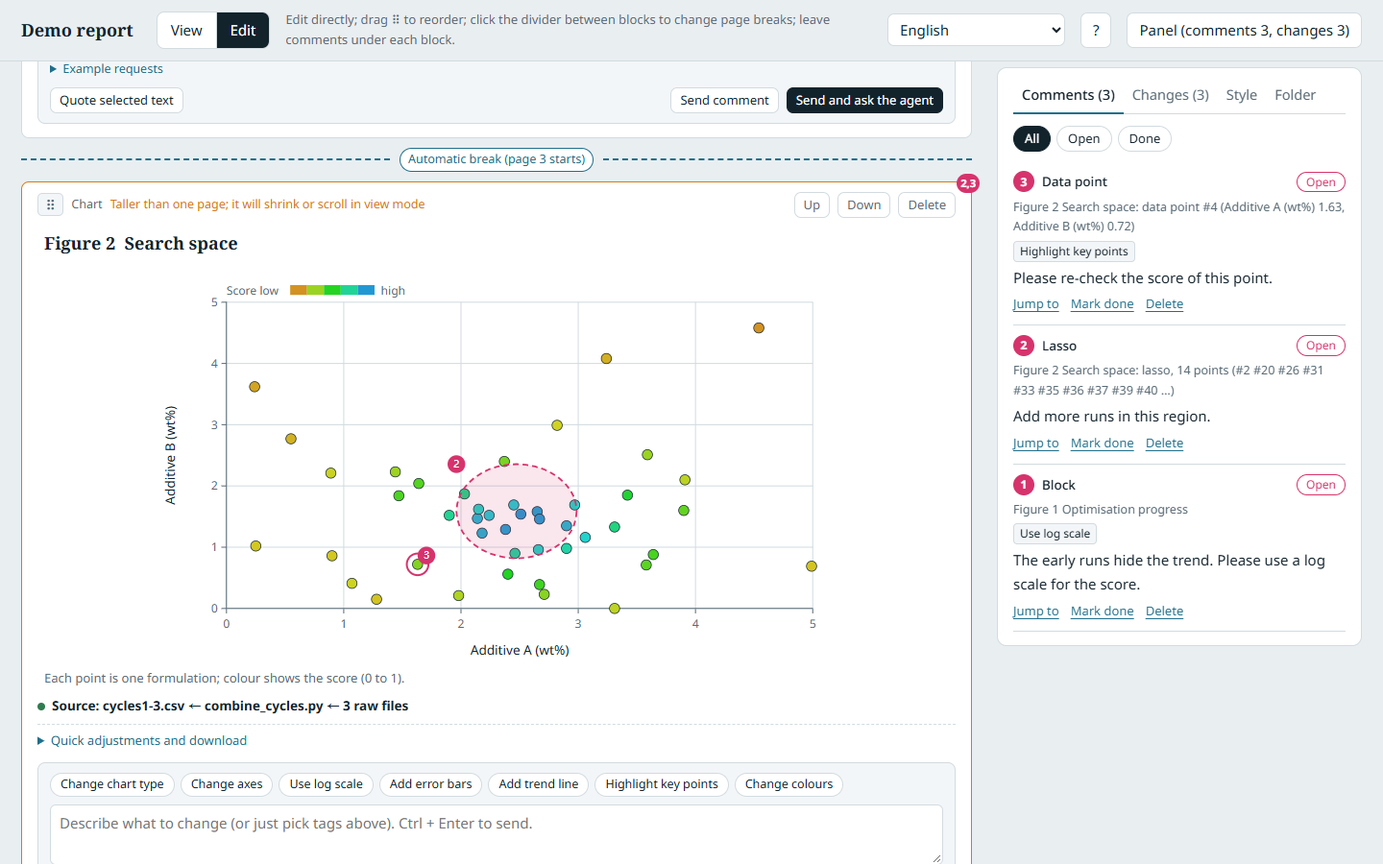
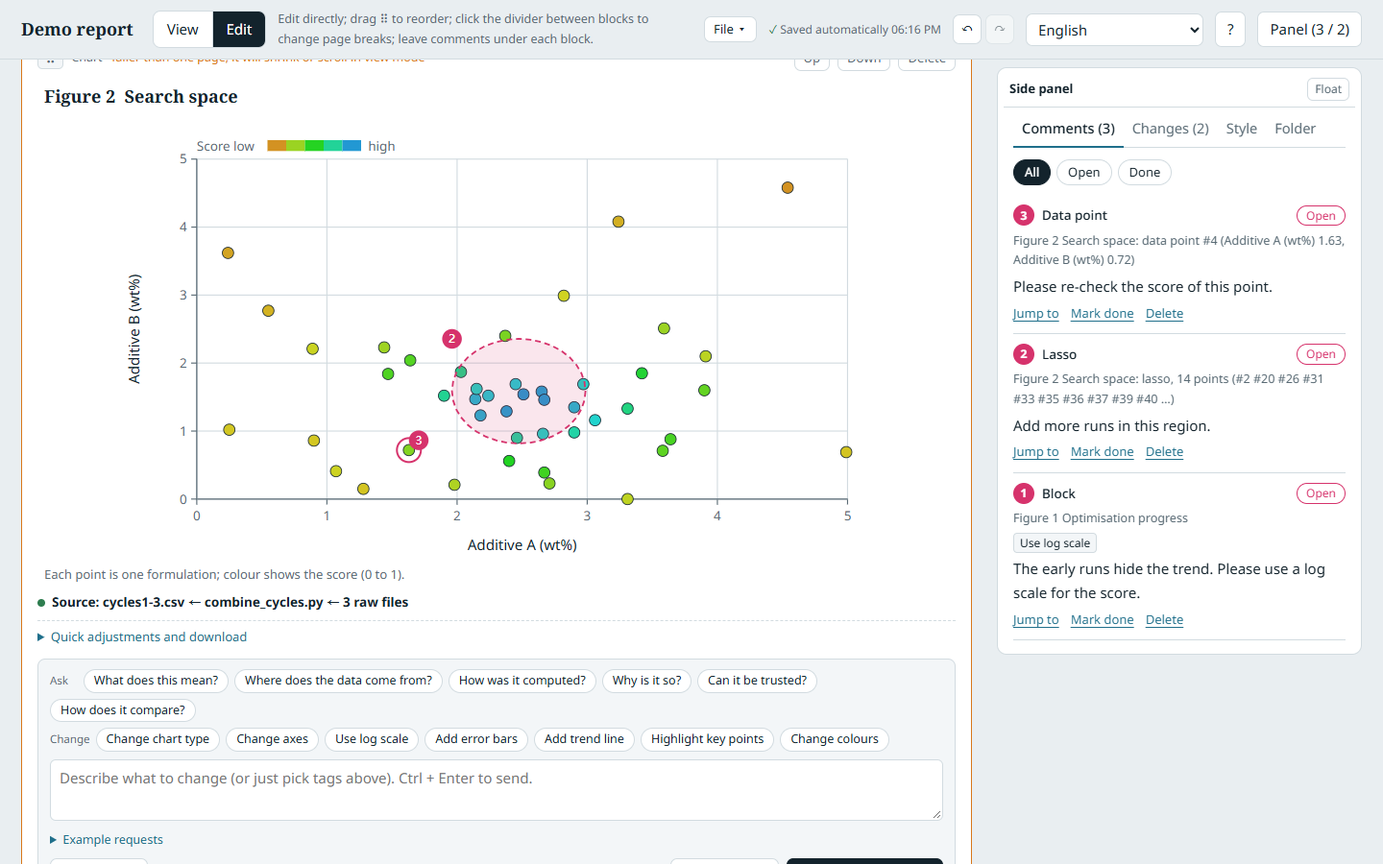
README and tutorial: asking while reading, the page as a slide, saving and undo
- Tutorial: a new section "Ask while you read", the top bar, placing the page,
  the two rows of tags, the side panel pinned or floating, folders and the
  name filter in the Folder tab, and a section "Saving, undo and backups"
  with the File menu. Sections renumbered; the link to section 1 fixed.
- README: three short clips (asking while reading, placing the page, undo),
  the new features, and Export read-only copy under the File menu.
- Screenshots retaken with the launcher and real mouse events; two new ones
  (asking while reading, the File menu).
- llms.txt: questions while reading, saving, undo and snapshots.

diff --git a/docs/tutorial.md b/docs/tutorial.md
@@ -8,11 +8,12 @@ This tutorial follows that loop once, with the demo project in [`examples/demo-p
 
 1. [Install](#1-install) (once)
 2. [Start a report](#2-start-a-report)
-3. [Review: edit, comment, draw around points](#3-review-edit-comment-draw-around-points)
-4. [Ask the agent to revise](#4-ask-the-agent-to-revise)
-5. [Check what changed](#5-check-what-changed)
+3. [Ask while you read](#3-ask-while-you-read)
+4. [Review: edit, comment, draw around points](#4-review-edit-comment-draw-around-points)
+5. [Ask the agent to revise](#5-ask-the-agent-to-revise)
+6. [Check what changed](#6-check-what-changed)
 
-Then, when you need them: [bring in raw data and trace figures back to it](#6-raw-data-and-the-data-chain), [teach it your figure style and your writing](#7-your-figure-style-and-your-writing), [other languages](#8-other-languages), and [what to do when something goes wrong](#when-something-goes-wrong).
+Then, when you need them: [bring in raw data and trace figures back to it](#7-raw-data-and-the-data-chain), [teach it your figure style and your writing](#8-your-figure-style-and-your-writing), [other languages](#9-other-languages), [saving, undo and backups](#10-saving-undo-and-backups), and [what to do when something goes wrong](#when-something-goes-wrong).
 
 You need a desktop computer with Chrome or Edge.
 
@@ -73,6 +74,8 @@ Until a folder is open, a yellow bar reminds you that nothing is saved. Once it 
 
 ![The page before a folder is opened](open-folder.png)
 
+**The top bar.** **View** and **Edit** switch modes. To their right: the **File** menu (snapshot, export, clear comments), the line that says the page [saves by itself](#10-saving-undo-and-backups), and, in Edit, the **Undo** and **Redo** arrows. The **?** button explains the page and lists the names of its parts ("Page bar", "Side panel", "Questions panel", and so on), so you and your agent can talk about them.
+
 **Where files go.** Duetsheet keeps everything it writes in a `duetsheet/` subfolder of your data folder. Your raw data must be *inside* the folder you open but *outside* `duetsheet/`; it is only read, never changed. What is computed from it goes *inside* `duetsheet/`: tables in `derived_data/`, the scripts that compute them in `scripts/`.
 
 ```
@@ -87,15 +90,36 @@ my-experiment/                the folder you open
 
 If some of your data is somewhere else (another drive, your Downloads folder), move or copy it into the folder first; Claude asks you rather than doing it. (The demo project uses a simpler layout, with `report.json` at the top and the raw data in `data/`.)
 
-**View** shows the report as 16:9 pages. Turn pages with the arrow keys or the buttons below.
+**View** shows the report as 16:9 pages, like slides. Turn pages with the arrow keys or the buttons below.
 
 ![View mode with a project folder open](view-mode.png)
 
-**Later, without an agent**: `python path/to/duetsheet.py shortcut "path/to/data-folder"` puts a shortcut on your desktop; double-click it to open the report and keep the window that opens while you use it. To show the report to someone who has nothing installed, click **Export read-only copy** and send them the HTML file from `exports/`; it opens in any browser.
+**Place the page where you like.** Drag the thin bar above the page to move it (the page buttons and thumbnails come along), and drag its bottom right corner to make it smaller or larger. The page is scaled as a whole, so it always holds the same blocks: what is on page 3 for you is on page 3 for your agent and for everyone else, whatever the size of their window. Double-click the bar to put the page back; until you move it, it fits the window and makes room for the questions panel. Where you put it is kept in this browser, not in the report.
 
-## 3. Review: edit, comment, draw around points
+![Moving the page by its bar, making it smaller from its corner, and putting it back](move-page.gif)
 
-Switch to **Edit**. Fix small things yourself, and write down everything else for the agent.
+**Later, without an agent**: `python path/to/duetsheet.py shortcut "path/to/data-folder"` puts a shortcut on your desktop; double-click it to open the report and keep the window that opens while you use it. To show the report to someone who has nothing installed, choose **File > Export read-only copy** and send them the HTML file from `exports/`; it opens in any browser.
+
+## 3. Ask while you read
+
+You do not have to switch to Edit to ask the agent about something you read. In **View**:
+
+- **Draw around a region of a figure.** Hold the mouse button on a chart or an image and draw around what you mean, as in a paint program. On a chart you can also click a single point.
+- **Select some text.** An **Ask the agent** button appears next to the selection.
+
+A small window opens. Pick one of the **Ask** tags (*What does this mean?*, *Where does the data come from?*, *How was it computed?*, *Why is it so?*, *Can it be trusted?*, *How does it compare?*) or type your own question, and click **Add to my questions**.
+
+![A region of a chart circled, the question being written, and the questions panel with an earlier question and the agent's answer](view-ask.png)
+
+![Asking while reading: draw around two points, pick a question, send it, and the answer comes back into the panel](ask-while-reading.gif)
+
+Your questions wait in the **Questions panel** at the bottom right. Drag its header to move it, drag its corner to resize it, and click **–** to fold it to one line; it remembers where you left it, and double-clicking its header puts it back in its corner. It lists each question with what it points at (click it to jump there), and the agent's answer under it; **Reply** goes on with the conversation. **Ask the agent (n)** sends all open questions at once, and the answers come back into the same panel.
+
+The agent answers a question tag in words: what it means, where the number comes from and through which steps, how it was computed, how far it can be trusted. It changes the report only if you also asked for a change.
+
+## 4. Review: edit, comment, draw around points
+
+Switch to **Edit**. The side panel (comments, changes, style, folder) sits on the right; **Float** in its header lets it float over the page instead, to be moved, resized or folded. Fix small things yourself, and write down everything else for the agent.
 
 **Fix it yourself.** Change titles, text and captions directly. **Quick adjustments and download** under a chart changes its type, axis labels, range or log scale, and downloads its data (CSV) or the chart (SVG, PNG). Drag blocks to reorder them; click the dividers between blocks to control page breaks. Every change is recorded.
 
@@ -105,14 +129,14 @@ Switch to **Edit**. Fix small things yourself, and write down everything else fo
 
 **Say what to change.** Under every block there is a comment box:
 
-- pick preset tags such as **Use log scale** or **Highlight key points**, and add words if you like;
+- pick tags: the first row asks (*How was it computed?*, *Can it be trusted?*, ...), the second row asks for a change (**Use log scale**, **Highlight key points**, ...); add words if you like;
 - **Example requests** offers general sentences to start from (for example *Plot […] and […] in this chart, in different colours*), with […] for you to fill in;
 - files you ticked in the Folder tab can be attached, so you never type file names;
 - **Send comment** keeps it for the next round; **Send and ask the agent** sends it and asks the agent at once.
 
 When you have finished a batch of feedback, click **Finish this round** at the top (it appears as soon as you change something), or in the **Changes** tab.
 
-## 4. Ask the agent to revise
+## 5. Ask the agent to revise
 
 **With one button.** If Claude Code started the report (`/duetsheet`), it keeps listening in the background, at no cost. Click **Ask the agent to revise** at the top: it finishes your round and hands your comments to the agent. Next to the button you see *Request sent*, then *The agent is revising the report…*, then *The agent handled N comments*, and the report reloads by itself.
 
@@ -128,9 +152,9 @@ If no agent is listening (for example, you opened the report with a desktop shor
 
 Comments the agent handled are marked **Done** with its reply. A comment it could not settle stays **Open**, with a question for you. To answer, write under its reply and click **Reply**: the comment opens again, and the next **Ask the agent to revise** sends your answer.
 
-## 5. Check what changed
+## 6. Check what changed
 
-The **Changes** tab shows the current round; **Show full history** shows every round. Text changes are shown as inline differences; settings read as "before → after". Each change can be reverted on its own.
+The **Changes** tab shows the current round; **Show full history** shows every round. Text changes are shown as inline differences; settings read as "before → after". Each change can be reverted on its own. To take back your own last changes one at a time, use **Undo** in the top bar ([section 10](#10-saving-undo-and-backups)).
 
 The timeline has one row per block and one column per round. Filled markers are edits (blue: you, purple: the agent), circles are comments. Click a column to see only that round.
 
@@ -138,9 +162,9 @@ The timeline has one row per block and one column per round. Filled markers are 
 
 That is one round. Review again, ask again: the loop goes on until the report says what you mean.
 
-## 6. Raw data and the data chain
+## 7. Raw data and the data chain
 
-**Bring in a file.** Open the **Folder** tab. Data files in the folder are listed with their status; click **Import** next to one (in the demo, `cycle4-runs.csv`). The file becomes a dataset, and Duetsheet records where it came from: the path and a SHA-256 fingerprint of the file. If the file changes later, the Folder tab says "changed since import", charts that use it show a warning in Edit mode, and **Update** imports the new version (the change log keeps both). To plot it, switch to **Edit**, click **Add chart**, open **Chart settings** and pick the dataset.
+**Bring in a file.** Open the **Folder** tab. Data files are listed by folder, as in a file browser: a folder opens when you click it, and what you opened is remembered. The box at the top filters the file names as you type and opens the folders that match. Click **Import** next to a file (in the demo, `cycle4-runs.csv`). The file becomes a dataset, and Duetsheet records where it came from: the path and a SHA-256 fingerprint of the file. If the file changes later, the Folder tab says "changed since import", charts that use it show a warning in Edit mode, and **Update** imports the new version (the change log keeps both). To plot it, switch to **Edit**, click **Add chart**, open **Chart settings** and pick the dataset.
 
 ![The Folder tab after importing a data file](folder-tab.png)
 
@@ -158,7 +182,7 @@ Click the line to see the whole chain, down to the raw files. The Folder tab's *
 
 Raw data can be large. Duetsheet compares size and modification date first and reads a file again only when they differ. `python duetsheet.py check <folder>` reports the same states as warnings; `check --deep` reads every file.
 
-## 7. Your figure style and your writing
+## 8. Your figure style and your writing
 
 The **Folder** tab has two parts: **Data** and **Habits**.
 
@@ -174,11 +198,27 @@ The **Folder** tab has two parts: **Data** and **Habits**.
 
 **Personal habits.** With the launcher, **Save as my personal habits** keeps your figure style and writing rules in `~/.duetsheet/habits/`, and **Load my personal habits** brings them into any new project.
 
-## 8. Other languages
+## 9. Other languages
 
 The interface follows your browser language (English, Traditional Chinese, Simplified Chinese, Japanese, Korean or Spanish). Change it from the menu at the top right, or add your own ([how](translating.md)). The language never changes the report content or the stored data, so people working in different languages can review the same report.
 
 ![The same report with the Japanese interface](language-ja.png)
+
+## 10. Saving, undo and backups
+
+**Nothing to save.** Every change is written at once to `report.json` in the folder, and the top bar says so: *Saving…*, then *Saved automatically* with the time. If a write fails, the bar turns red and says why; if no folder is open, it says *Not saved to a folder*.
+
+**Undo and Redo.** In Edit, the arrows in the top bar (or Ctrl+Z and Ctrl+Y outside a text box, where the browser undoes your typing) take back **your own** changes of the current round, newest first. Hover over an arrow to see what it will undo. The agent's changes are not undone this way; use **Revert** in the Changes tab.
+
+![Switching Figure 1 to a log scale, then Undo and Redo in the top bar](edit-undo.gif)
+
+**The File menu.**
+
+![The File menu: snapshot, export, clear comments](file-menu.png)
+
+- **Take a snapshot** copies `report.json` into `exports/snapshots/<date-time>/`, to go back to later.
+- **Save report file** and **Export read-only copy** (one HTML file for someone who does not use Duetsheet).
+- **Clear the done comments** and **Clear all comments** remove comments, with the agent's answers. Before it removes anything, the page tells you how many there are, how many are not done yet, and takes a snapshot, so a mistake can be undone.
 
 ## When something goes wrong
 
@@ -196,6 +236,4 @@ Errors and warnings do not just flash by: a **⚠** button appears at the top ri
 
 ## Going further: the whole research record
 
-A report tells the finished story. To keep every attempt that led there, the dead ends included, as a tree you and your agent write together and can recompute, see [Duetkifu](https://github.com/Ashur5457/duetkifu). It reads the same `report.json`.
-
-Duetkifu also goes further on the report side: you can ask the agent about a figure or a passage while you only read (draw around part of a figure, or select some text), arrange the page and use a floating side panel, undo your own changes, and take snapshots from a File menu. Its [tutorial](https://github.com/Ashur5457/duetkifu/blob/main/docs/tutorial.md) has short clips of each.
+A report tells the finished story. To keep every attempt that led there, the dead ends included, as a tree you and your agent write together and can recompute, see [Duetkifu](https://github.com/Ashur5457/duetkifu). It reads the same `report.json`, and adds a search inside every file of a large research folder (reports, Word, slides, spreadsheets) for you and your agent.

diff --git a/README.md b/README.md
@@ -14,6 +14,14 @@ Why the name: in a duet, two performers play from **one sheet of music**. In Due
 
 ![Paginated view mode](docs/view-mode.png)
 
+## In action
+
+| Ask while you read | Place the page |
+|---|---|
+| ![Draw around two points of a chart, pick a question, send it; the answer comes back](docs/ask-while-reading.gif) | ![Move the page by its bar, resize it from its corner, put it back](docs/move-page.gif) |
+
+Changing a chart and taking the change back: ![Switch a chart to a log scale, then Undo and Redo](docs/edit-undo.gif)
+
 > **Keeping the whole research, not only the report?** [Duetkifu](https://github.com/Ashur5457/duetkifu) records every attempt that led to a report, the dead ends included, as a tree you and your agent write together and can recompute. It builds on Duetsheet and reads the same `report.json`.
 
 ## Why
@@ -25,23 +33,25 @@ Describing "the cluster of points in the upper left of the second figure looks o
 ## Features
 
 **Review**
-- **View mode**: clean, paginated 16:9 pages with automatic page breaks. Mark any block as "force a new page", "keep with the previous block", or "beside the previous block", which puts a figure and its discussion side by side. A contents block lists the sections and figures with their page numbers as links. Figures shrink to fit when a page overflows.
-- **Edit mode**: edit titles, text and captions in place; change chart type, dataset, axes, ranges and log scale; crop and resize images; drag blocks to reorder, or switch to **Reorder (titles only)** to see every block as one line, page by page, and drag a figure together with its discussion; add or delete blocks.
+- **View mode**: clean, paginated 16:9 pages with automatic page breaks. Mark any block as "force a new page", "keep with the previous block", or "beside the previous block", which puts a figure and its discussion side by side. A contents block lists the sections and figures with their page numbers as links. Figures shrink to fit when a page overflows. Pages are laid out at one width and scaled like slides, so a page holds the same blocks on every screen; move the page by the bar above it and resize it from its corner.
+- **Ask while you read**: in View, draw around a region of a figure, click a data point, or select some text to ask the agent about it. The questions wait in a floating panel, one button sends them, and the answers come back there to reply to. Question tags (*Where does the data come from?*, *How was it computed?*, *Can it be trusted?*) get an answer, not an edit.
+- **Edit mode**: edit titles, text and captions in place; change chart type, dataset, axes, ranges and log scale; crop and resize images; drag blocks to reorder, or switch to **Reorder (titles only)** to see every block as one line, page by page, and drag a figure together with its discussion; add or delete blocks. The side panel is pinned on the right, or floats over the page.
 - **Visual annotation on figures**: draw around points free-hand with the mouse, as in a paint program, or box-select, on charts and images, or click a single data point in Edit mode (in View mode, pointing at a point shows its values). A small dialog opens right there to say what should change. On charts the annotation stores the **data-space range and the enclosed data points**, not pixels, so the agent knows exactly which measurements you mean.
 - **Ask the agent to revise**: one button at the top sends your comments to the agent that started the report (it waits in the background with `duetsheet.py wait`, at no cost). The page shows when the request is sent, when the agent is working and how many comments it handled, and reloads the revised report by itself. The page never calls a model: the request is only a notice, and the agent reads your comments from the report.
 - **Conversations on comments**: the agent answers under each comment, and you can answer back; your answer reopens the comment for the next round.
 - **Say it in words, not settings**: every comment box has **Example requests**, general scientific sentences to start from and edit (log scale, axis range, only some data, several series, panels, trend line with R², error bars, correlation explained in plain words, export), with […] for what you fill in. Files ticked in the Folder tab can be attached, and **Send and ask the agent** sends the request in one click. Charts keep only quick adjustments (type, axis labels, range, log scale), and download their data as CSV or themselves as SVG or PNG; any dataset downloads as CSV.
-- **Per-block comments** with preset tags ("more concise", "add data", "use log scale", "add trend line", ...) and quotes of selected text.
+- **Per-block comments** with preset tags in two rows, questions ("what does this mean?", "how was it computed?", ...) and changes ("more concise", "add data", "use log scale", "add trend line", ...), and quotes of selected text.
 
 **History**
 - **Change log**: every edit is recorded with before and after values. Text changes are shown as inline diffs; setting changes read as sentences ("Y axis: linear → log"). Each change can be reverted on its own.
 - **Rounds and timeline**: close a round of edits with one click. The timeline shows rows as report blocks and columns as rounds, with human and AI edits colour-coded.
 - **Human vs. AI attribution**: edits made by the agent are recorded separately from yours.
+- **Saved as you go**: every change is written at once, and the top bar says when it last saved; Undo and Redo (Ctrl+Z, Ctrl+Y) take back your own changes; a File menu takes dated snapshots of `report.json`, exports, and clears comments (after a snapshot).
 
 **Data and figures**
 - **Works in your data folder**: start Duetsheet in the folder with your raw data (`/duetsheet` in Claude Code, or `python duetsheet.py`) and the report opens already connected to it, with no folder to pick. The report is saved in a `duetsheet/` subfolder; raw data is only read. Your agent can edit the report while the page is open; the page reloads it and merges by document. In Chrome or Edge you can also open a folder from the page itself.
 - **Raw data with provenance**: import CSV, TSV or JSON files from your data folder and its subfolders. Each dataset records the file path and its SHA-256 fingerprint, and the page tells you when the source file changed after the import.
-- **Data chain, from figure to raw file**: every script run is recorded as a step (script, command, parameters, input and output files with their fingerprints). Under each chart and table a line such as *Source: cells.csv ← make_cells.py ← 72 raw files* opens the whole chain. When a raw file or a script changes, everything computed from it turns red: steps, derived files, datasets, charts. New data is found by itself: drop a new round of files into the folder and the steps whose input patterns match them turn red, with the new files listed. The Folder tab lists every derived file, raw file and script, and answers the reverse question too: click a raw file and see which charts depend on it. Large raw data is only re-read when its size or date changed.
+- **Data chain, from figure to raw file**: every script run is recorded as a step (script, command, parameters, input and output files with their fingerprints). Under each chart and table a line such as *Source: cells.csv ← make_cells.py ← 72 raw files* opens the whole chain. When a raw file or a script changes, everything computed from it turns red: steps, derived files, datasets, charts. New data is found by itself: drop a new round of files into the folder and the steps whose input patterns match them turn red, with the new files listed. The Folder tab lists every derived file, raw file and script as folders that open like in a file browser, with a box that filters the file names, and answers the reverse question too: click a raw file and see which charts depend on it. Large raw data is only re-read when its size or date changed.
 - **Several series in one chart**: compare data from different files or instruments in one chart, each series with its own colour, marker and legend name. Empty cells are left out, not drawn as zero.
 - **Pick files instead of typing names**: tick files in the Folder tab (Shift-click for a range, or a whole folder), then **Add to a chart** or **Replace the data of a chart**. The request goes to your agent as a comment with the exact file list; it combines the files, records the step and updates the chart. Long file names are shortened to the part that differs (`ch001-020` instead of `raw data_ch001-020.xlsx`). The datasets in the report are listed with the charts that use them, and several can be deleted at once.
 - **Figures from any tool, with their source**: upload SVG (kept as vector) or PNG/JPEG/WebP/GIF from Origin, matplotlib, MATLAB, R, Igor Pro, Prism, Excel and others. Each image records which tool made it, the original file name, the plotting script and the raw data, so the agent knows how to regenerate it.
@@ -53,10 +63,13 @@ Describing "the cluster of points in the upper left of the second figure looks o
 - **Habit suggestions**: when you make the same chart change on three charts (for example switching to a log axis), Duetsheet offers to make it the default.
 
 **For everyone**
+- **Names for every part of the page**: the help window lists them ("Page bar", "Side panel", "Questions panel", ...), so you and your agent can talk about the same thing.
 - **Problems you can see**: errors and warnings stay listed under **⚠** at the top (for a broken `report.json`, with the line and column). With the launcher they also reach your agent and are saved in `errors.log`. `NaN` and `Infinity` written by Python are read as empty values instead of breaking the page, and failed saves (for example while OneDrive holds the file) are retried.
 - **Six interface languages, plus your own**: English, Traditional Chinese, Simplified Chinese, Japanese, Korean and Spanish, picked from the browser language. Anyone can add a language or correct a translation from the language menu, with no code. See [docs/translating.md](docs/translating.md).
-- **Read-only copies and shortcuts**: **Export read-only copy** writes one HTML file with the report and its images inside; it opens in any browser, straight into View mode, and can be sent to anyone. `python duetsheet.py shortcut <folder>` puts a desktop shortcut that opens the report with one double-click.
+- **Read-only copies and shortcuts**: **File > Export read-only copy** writes one HTML file with the report and its images inside; it opens in any browser, straight into View mode, and can be sent to anyone. `python duetsheet.py shortcut <folder>` puts a desktop shortcut that opens the report with one double-click.
 - **Open format**: the report is plain JSON with a published [JSON Schema](schema/report.schema.json), so any program or LLM can read, generate and validate it.
+
+![Asking while reading: a region of a chart circled, the question being written, and the questions panel with the agent's answer](docs/view-ask.png)
 
 ![Annotating a chart with a lasso and a data point](docs/edit-annotate.png)
 
@@ -81,7 +94,7 @@ You need Python 3.8 or later (nothing else to install).
    ```bash
    git clone https://github.com/Ashur5457/duetsheet.git && python duetsheet/duetsheet.py install-skill
    ```
-   Updating, removing, and installing without git: [tutorial, section 0](docs/tutorial.md#0-install).
+   Updating, removing, and installing without git: [tutorial, section 1](docs/tutorial.md#1-install).
 2. Open Claude Code in the folder that holds your raw data (CSV, TSV, JSON; Excel is converted by Claude) and type `/duetsheet`, or just say:
    > Start Duetsheet and write a report from the data in this folder.
 
@@ -98,7 +111,7 @@ You need Python 3.8 or later (nothing else to install).
        scripts/make_cells.py     the scripts that compute them
    ```
    Data outside the opened folder cannot be traced; move or copy it in first.
-3. Review in **Edit** mode: change things directly, comment, draw on figures.
+3. Read in **View** and ask about what you read, or review in **Edit** mode: change things directly, comment, draw on figures.
 4. Click **Ask the agent to revise** at the top of the page. Claude, waiting in the background, reads your comments and revises the report; the button shows its progress. You do not need to switch back to Claude. (If no agent is listening, for example when you opened the report from a desktop shortcut, the button gives you a prompt to paste into Claude instead. You can also just tell Claude: *Read my annotations and revise the report.*)
 
    The page picks up Claude's changes within a few seconds. Everything it changed appears in the change log, marked as the agent's. If something goes wrong, the page reports it to Claude (and under **⚠** at the top), so Claude can fix it.
